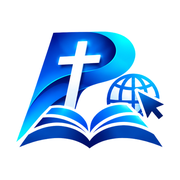
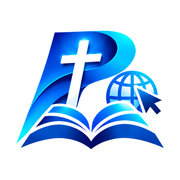
Add files via upload

Changed region(s): [[0.0833, 0.1667, 0.9167, 0.8333], [0.8056, 0.75, 0.9167, 0.8333], [0.4167, 0.7778, 0.4722, 0.8056]]

diff --git a/index.html b/index.html
@@ -40,7 +40,7 @@
   <header class="encabezado">
     <div class="contenedor encabezado__fila">
       <a class="marca" href="./">
-        <img class="marca__logo" src="img/logo.png" alt="PraiseSync Books Web" width="594" height="180">
+        <img class="marca__logo" src="img/logo.png" alt="PraiseSync Books Web" width="580" height="180">
         <span class="visualmente-oculto" id="nombre-tienda">PraiseSync Books Web</span>
       </a>
       <div class="encabezado__acciones">
